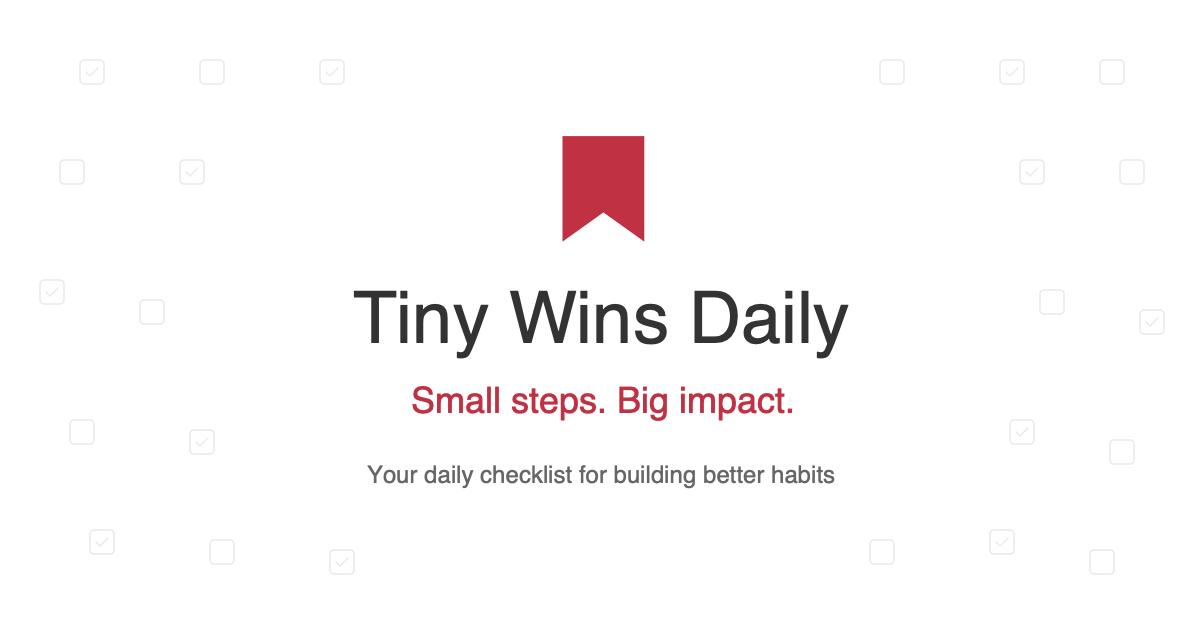
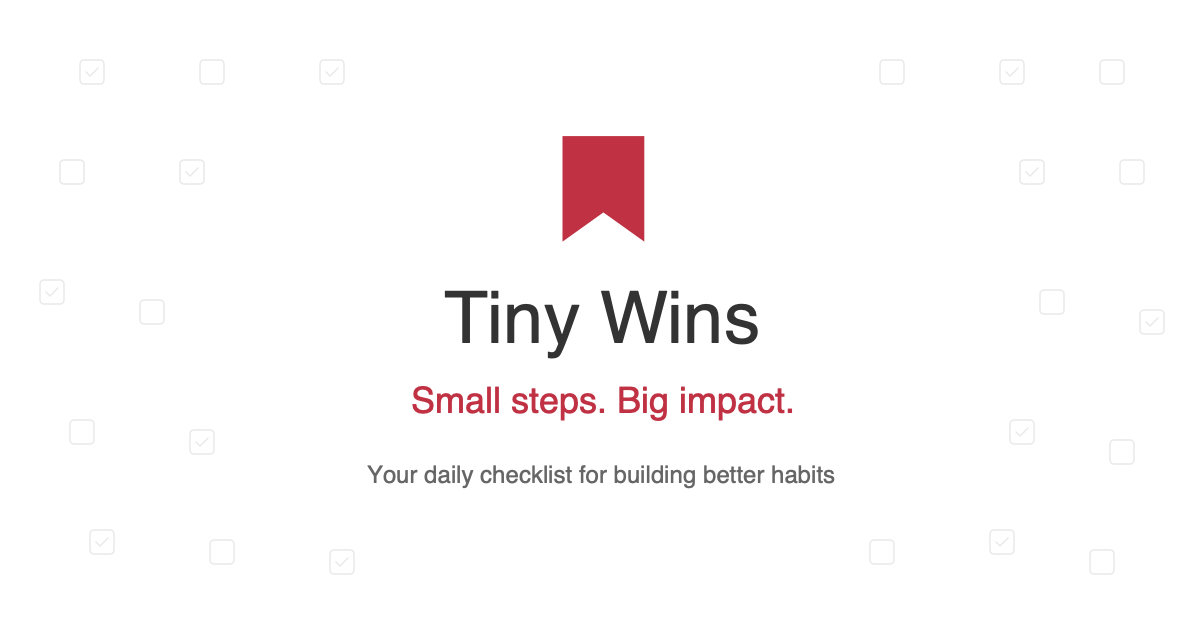
Update to Tiny Wins branding with bolder font

Changed region(s): [[0.2775, 0.4524, 0.7092, 0.573]]

diff --git a/index.html b/index.html
@@ -3,11 +3,11 @@
 <head>
     <meta charset="UTF-8">
     <meta name="viewport" content="width=device-width, initial-scale=1.0">
-    <title>Daily Checklist</title>
+    <title>Tiny Wins</title>
     <link rel="icon" type="image/svg+xml" href="favicon.svg">
     
     <!-- Open Graph Meta Tags -->
-    <meta property="og:title" content="Tiny Wins Daily">
+    <meta property="og:title" content="Tiny Wins">
     <meta property="og:description" content="Small steps. Big impact. Your daily checklist for building better habits.">
     <meta property="og:image" content="https://aprkim.github.io/daily-checklist/og-image.png">
     <meta property="og:url" content="https://aprkim.github.io/daily-checklist/">
@@ -15,7 +15,7 @@
     
     <!-- Twitter Card Meta Tags -->
     <meta name="twitter:card" content="summary_large_image">
-    <meta name="twitter:title" content="Tiny Wins Daily">
+    <meta name="twitter:title" content="Tiny Wins">
     <meta name="twitter:description" content="Small steps. Big impact. Your daily checklist for building better habits.">
     <meta name="twitter:image" content="https://aprkim.github.io/daily-checklist/og-image.png">
     
